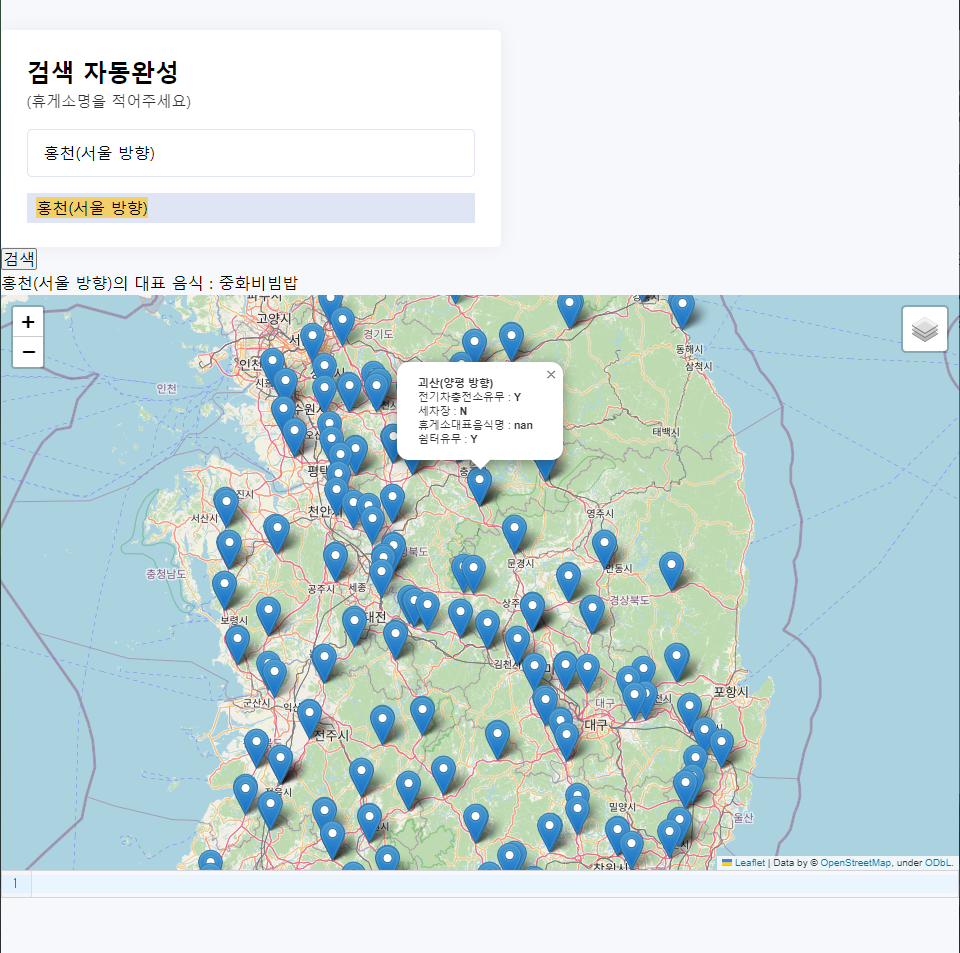
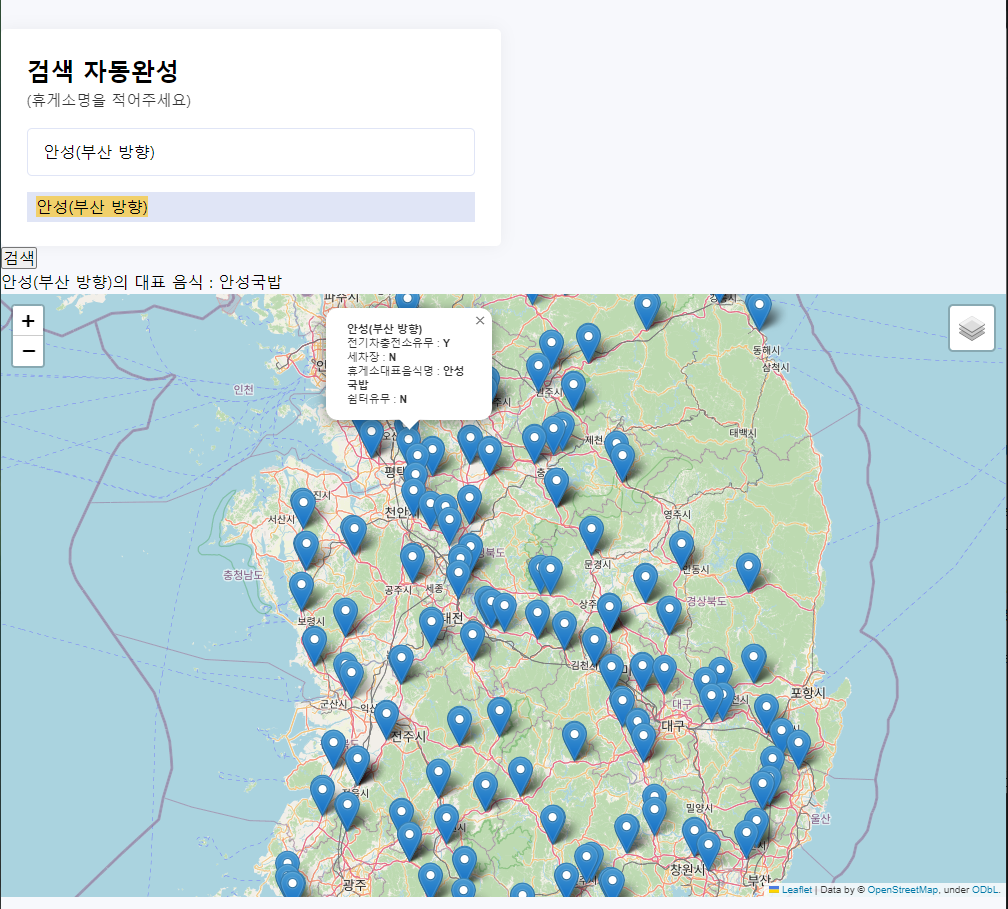
이미지 수정, 화면 꾸미는 중

diff --git a/study/test/mini-pjt/index.html b/study/test/mini-pjt/index.html
@@ -8,6 +8,37 @@
     <script defer src="https://pyscript.net/latest/pyscript.js"></script>
     <script src="https://code.jquery.com/jquery-latest.js"></script>
     <title>휴게소</title>
+    <style>
+        main {
+            display: flex;
+            justify-content: space-between;
+        }
+
+        #left-side {
+            display: flex;
+            flex-direction: column;
+            align-items: flex-start;
+            width: 40%;
+        }
+
+        #left-side > div {
+            margin-top: 20px;
+        }
+
+        #map {
+            width: 50%;
+        }
+
+
+        .autocomplete > div.active {
+        background: #e0e5f6;
+        color: #000;
+        }
+        .autocomplete > div {
+        background: #f1f3f499;
+        padding: .2rem .6rem;
+        }
+    </style>
 </head>
 <body>
     <py-config>
@@ -16,20 +47,26 @@
         from = "./data/"
         files = ["rest-area3.csv", "autoComplate.py"]
     </py-config>
+    
     <main>
-        <section>
-            <h2>검색 자동완성</h2>
-            <p>(휴게소명을 적어주세요)</p>
-            <input
-                type="text"
-                id="search"
-                placeholder="검색어를 입력해주세요."
-                autocomplete="off"
-            />
-            <div class="autocomplete"></div>
-        </section>
-        <button id="stations" py-click="trigger()">검색</button>
-        <div id="menu"></div>
+        <div id="left-side">
+            <section>
+                <h2>휴게소 대표음식</h2>
+                <p>(휴게소명을 적어주세요)</p>
+                <input
+                    type="text"
+                    id="search"
+                    placeholder="동해, 안성 등등"
+                    autocomplete="off"
+                />
+                <div class="autocomplete"></div>
+            </section>
+            <div>
+                <button id="stations" py-click="trigger()">검색</button>
+                <div id="menu"></div>
+            </div>
+        </div>
+        <div id="map"></div>
     </main>
 
     <py-script>
@@ -133,6 +170,5 @@
 
         display(m, target='map')
     </py-script>
-    <div id="map"></div>
 </body>
 </html>

diff --git a/study/test/test.html b/study/test/test.html
@@ -74,29 +74,6 @@
         opacity: .8;
         font-size: 15px;
         }
-
-        /* The Modal (background) */
-        .modal {
-            display: none; /* Hidden by default */
-            position: fixed; /* Stay in place */
-            z-index: 1; /* Sit on top */
-            left: 0;
-            top: 0;
-            width: 100%; /* Full width */
-            height: 100%; /* Full height */
-            overflow: auto; /* Enable scroll if needed */
-            background-color: rgb(0,0,0); /* Fallback color */
-            background-color: rgba(0,0,0,0.4); /* Black w/ opacity */
-        }
-    
-        /* Modal Content/Box */
-        .modal-content {
-            background-color: #fefefe;
-            margin: 15% auto; /* 15% from the top and centered */
-            padding: 20px;
-            border: 1px solid #888;
-            width: 30%; /* Could be more or less, depending on screen size */                          
-        }
     </style>
     
 </head>
@@ -121,6 +98,7 @@
         </section>
         <button id="stations" py-click="trigger()">검색</button>
         <div id="menu"></div>
+        <div id="map"></div>
     </main>
 
     <py-script>
@@ -223,7 +201,5 @@
 
         display(m, target='map')
     </py-script>
-    <div id="map"></div>
-    <py-repl auto-generate="true"></py-repl>
 </body>
 </html>
